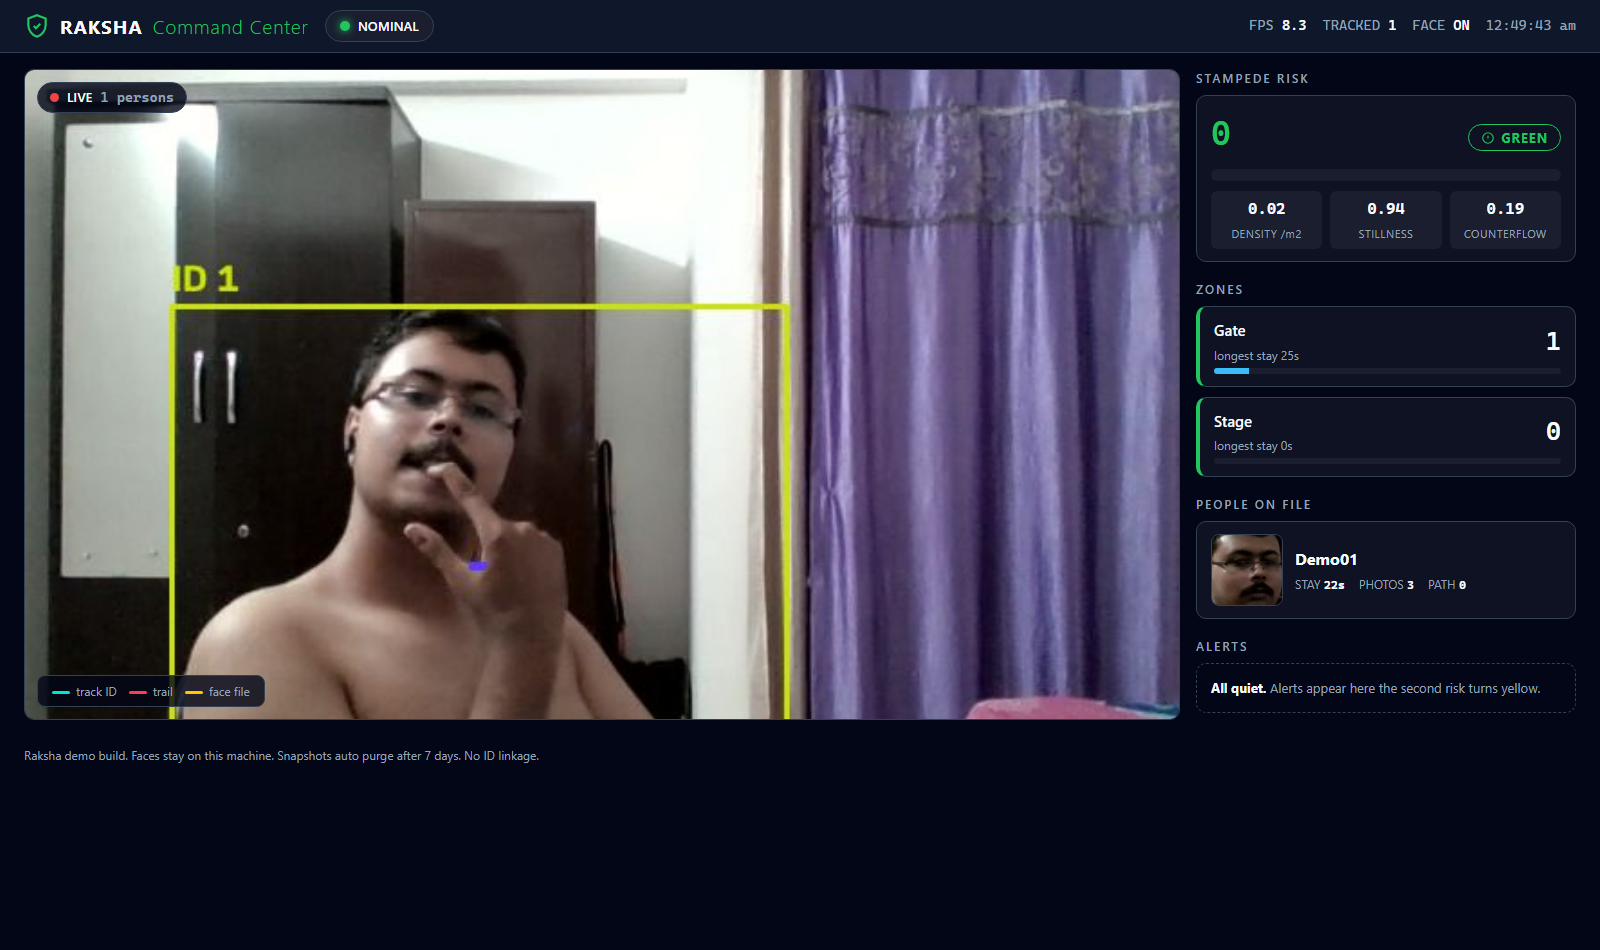
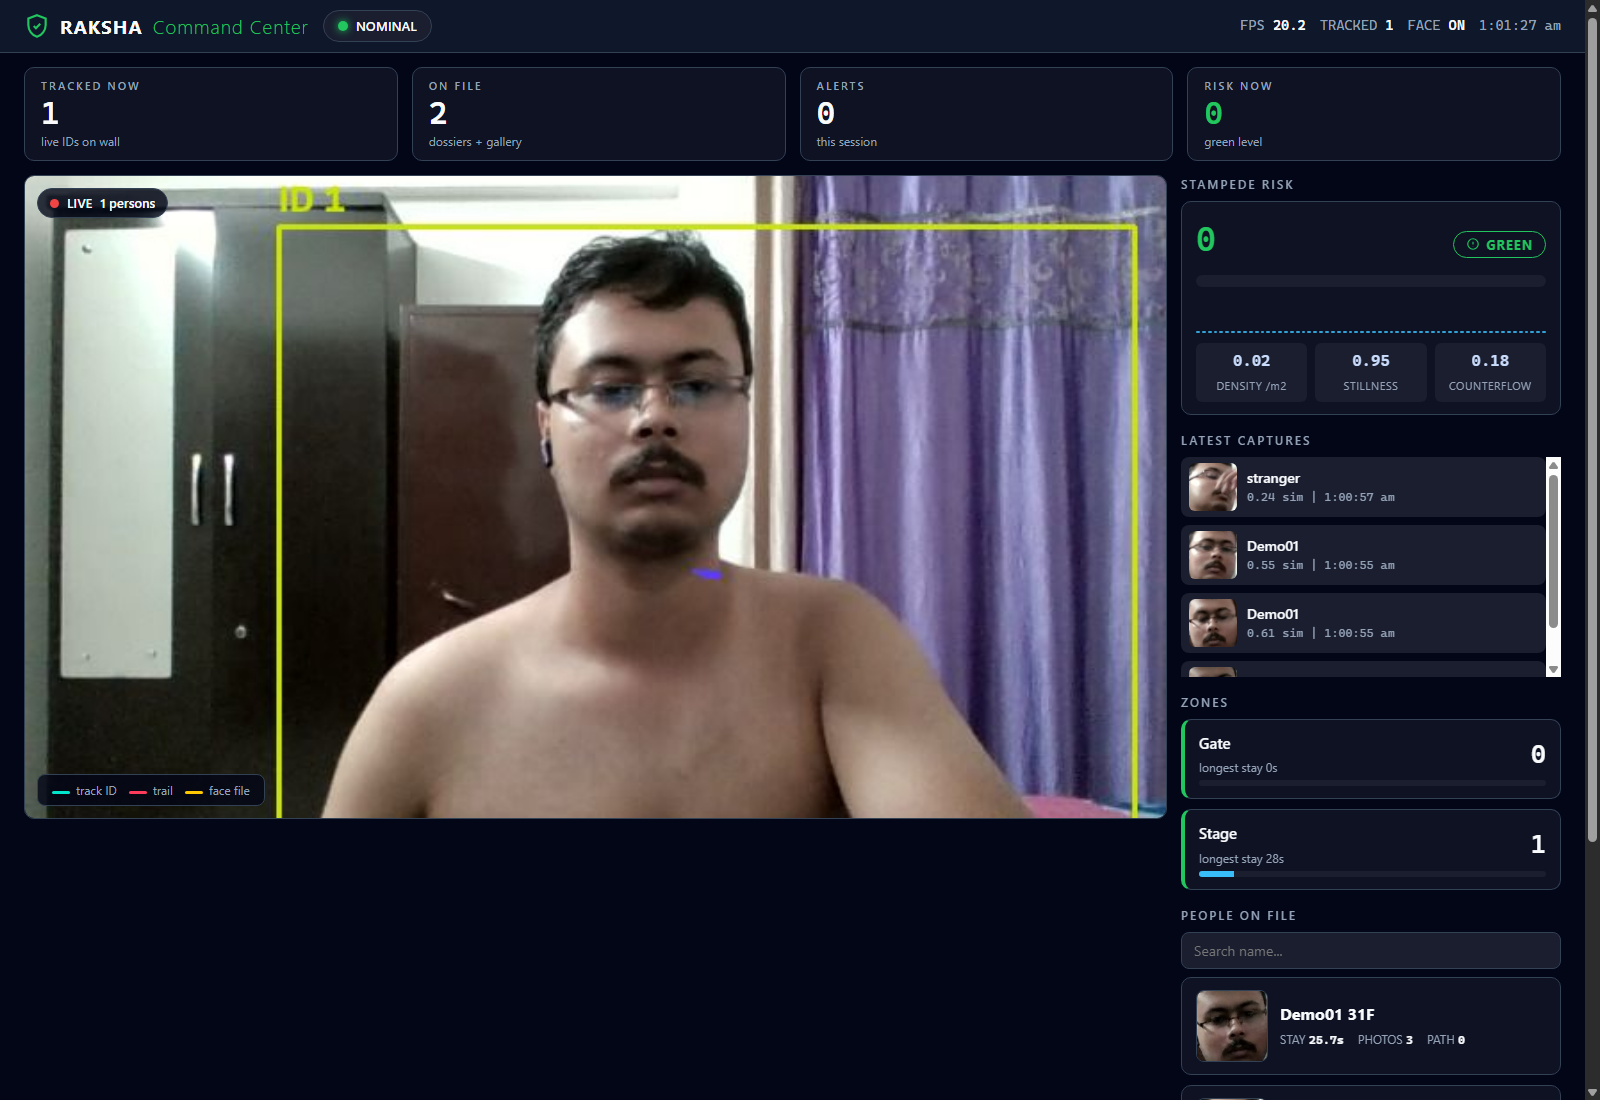
feat: wall v3 chinese-grade (KPIs, captures feed, search, sparkline, health)

diff --git a/raksha/frontend/wall.html b/raksha/frontend/wall.html
@@ -9,14 +9,13 @@
     --bg: #020617; --primary: #0F172A; --secondary: #1E293B; --card: #0E1223;
     --muted: #1A1E2F; --muted-fg: #94A3B8; --fg: #F8FAFC; --border: #334155;
     --accent: #22C55E; --warn: #E5B800; --danger: #EF4444; --info: #38BDF8;
-    --radius: 10px; --gap: 16px;
+    --radius: 10px; --gap: 14px;
     --font-ui: "Fira Sans", "Segoe UI", Calibri, Arial, sans-serif;
     --font-data: "Fira Code", "Cascadia Mono", Consolas, monospace;
   }
   * { box-sizing: border-box; margin: 0; }
   body { background: var(--bg); color: var(--fg); font-family: var(--font-ui); font-size: 15px; line-height: 1.5; }
-  /* top command bar */
-  .cmdbar { display: flex; align-items: center; gap: 16px; padding: 10px 24px;
+  .cmdbar { display: flex; align-items: center; gap: 14px; padding: 10px 24px;
     background: var(--primary); border-bottom: 1px solid var(--border); position: sticky; top: 0; z-index: 10; }
   .brand { display: flex; align-items: center; gap: 10px; font-size: 19px; font-weight: 700; letter-spacing: 1px; }
   .brand svg { width: 26px; height: 26px; }
@@ -30,16 +29,21 @@
   .cmdbar .spacer { flex: 1; }
   .metric { font-family: var(--font-data); font-variant-numeric: tabular-nums; font-size: 14px; color: var(--muted-fg); }
   .metric b { color: var(--fg); font-weight: 600; }
-  /* alert banner strip */
   .banner { display: none; align-items: center; gap: 12px; padding: 10px 24px; font-size: 15px; font-weight: 600; }
   .banner.show { display: flex; }
   .banner.red { background: #3d0a12; border-bottom: 2px solid var(--danger); }
   .banner.yellow { background: #38300a; border-bottom: 2px solid var(--warn); }
   .banner svg { width: 22px; height: 22px; flex-shrink: 0; }
+  .wrap { max-width: 1720px; margin: 0 auto; padding: var(--gap) 24px; }
+  /* KPI strip */
+  .kpis { display: grid; grid-template-columns: repeat(4, 1fr); gap: var(--gap); margin-bottom: var(--gap); }
+  .kpi { background: var(--card); border: 1px solid var(--border); border-radius: var(--radius); padding: 10px 16px; }
+  .kpi .klabel { font-size: 11px; letter-spacing: 2px; color: var(--muted-fg); font-weight: 600; }
+  .kpi .kvalue { font-family: var(--font-data); font-size: 32px; font-weight: 600; font-variant-numeric: tabular-nums; line-height: 1.2; }
+  .kpi .ksub { font-size: 12px; color: var(--muted-fg); }
   /* main grid */
-  .layout { display: grid; grid-template-columns: minmax(0, 1fr) 380px; gap: var(--gap);
-    padding: var(--gap) 24px; max-width: 1720px; margin: 0 auto; }
-  .videoframe { position: relative; background: #000; border: 1px solid var(--border); border-radius: var(--radius); overflow: hidden; }
+  .layout { display: grid; grid-template-columns: minmax(0, 1fr) 380px; gap: var(--gap); }
+  .videoframe { position: relative; background: #000; border: 1px solid var(--border); border-radius: var(--radius); overflow: hidden; align-self: start; }
   .videoframe img { width: 100%; display: block; aspect-ratio: 16 / 9; object-fit: cover; }
   .videoframe .live-tag { position: absolute; top: 12px; left: 12px; display: flex; align-items: center; gap: 8px;
     background: rgba(2, 6, 23, .8); border: 1px solid var(--border); padding: 4px 12px; border-radius: 999px; font-size: 13px; font-weight: 600; }
@@ -47,11 +51,12 @@
   .videoframe .legend { position: absolute; bottom: 12px; left: 12px; display: flex; gap: 12px;
     background: rgba(2, 6, 23, .8); border: 1px solid var(--border); padding: 6px 14px; border-radius: 8px; font-size: 12px; color: var(--muted-fg); }
   .legend i { display: inline-block; width: 18px; height: 3px; border-radius: 2px; margin-right: 6px; vertical-align: middle; }
-  /* rail */
-  .rail h2 { font-size: 12px; letter-spacing: 2px; color: var(--muted-fg); margin: 18px 0 8px; font-weight: 600; }
+  .rail h2 { font-size: 12px; letter-spacing: 2px; color: var(--muted-fg); margin: 16px 0 8px; font-weight: 600; }
   .rail h2:first-child { margin-top: 0; }
   .card { background: var(--card); border: 1px solid var(--border); border-radius: var(--radius); padding: 12px 14px; margin-bottom: 10px; }
-  /* risk gauge */
+  .card b { color: #cadcfc; }
+  .muted { color: var(--muted-fg); font-size: 13px; }
+  /* gauge + sparkline */
   .gauge-top { display: flex; align-items: baseline; justify-content: space-between; }
   .gauge-num { font-family: var(--font-data); font-size: 34px; font-weight: 600; font-variant-numeric: tabular-nums; }
   .gauge-level { display: inline-flex; align-items: center; gap: 6px; font-size: 13px; font-weight: 700; letter-spacing: 1px;
@@ -60,10 +65,18 @@
   .lvl-green { color: var(--accent); border-color: var(--accent); } .lvl-yellow { color: var(--warn); border-color: var(--warn); } .lvl-red { color: var(--danger); border-color: var(--danger); }
   .bar { height: 12px; border-radius: 6px; background: var(--muted); overflow: hidden; margin-top: 10px; }
   .bar > div { height: 100%; width: 0%; background: var(--accent); transition: width .5s ease; }
+  .spark { display: flex; align-items: flex-end; gap: 2px; height: 36px; margin-top: 10px; }
+  .spark i { flex: 1; background: var(--info); border-radius: 1px; min-height: 2px; opacity: .85; }
   .gauge-sub { display: grid; grid-template-columns: repeat(3, 1fr); gap: 8px; margin-top: 10px; }
   .gauge-sub div { background: var(--muted); border-radius: 6px; padding: 6px 8px; text-align: center; }
   .gauge-sub b { display: block; font-family: var(--font-data); font-size: 16px; font-variant-numeric: tabular-nums; }
   .gauge-sub span { font-size: 11px; color: var(--muted-fg); letter-spacing: .5px; }
+  /* captures feed */
+  .captures { display: flex; flex-direction: column; gap: 8px; max-height: 220px; overflow-y: auto; }
+  .cap { display: flex; gap: 10px; align-items: center; background: var(--muted); border-radius: 8px; padding: 6px 8px; }
+  .cap img { width: 48px; height: 48px; object-fit: cover; border-radius: 6px; background: #000; }
+  .cap .cwho { font-weight: 600; font-size: 14px; }
+  .cap .cmeta { font-size: 12px; color: var(--muted-fg); font-family: var(--font-data); }
   /* zones */
   .zone { display: grid; grid-template-columns: 1fr auto; gap: 4px 12px; align-items: center; border-left: 4px solid var(--accent); }
   .zone.warn { border-left-color: var(--warn); } .zone.bad { border-left-color: var(--danger); }
@@ -72,7 +85,9 @@
   .zone .zsub { font-size: 12px; color: var(--muted-fg); }
   .zone .zbar { grid-column: 1 / -1; height: 6px; background: var(--muted); border-radius: 3px; overflow: hidden; }
   .zone .zbar > div { height: 100%; background: var(--info); }
-  /* dossiers */
+  /* dossiers + search */
+  .search { width: 100%; background: var(--muted); border: 1px solid var(--border); color: var(--fg);
+    border-radius: 8px; padding: 8px 12px; font-size: 14px; font-family: var(--font-ui); margin-bottom: 8px; }
   .person { display: flex; gap: 12px; align-items: center; }
   .person img { width: 72px; height: 72px; object-fit: cover; border-radius: 8px; background: #000; border: 1px solid var(--border); flex-shrink: 0; }
   .person .pname { font-weight: 700; font-size: 16px; }
@@ -86,9 +101,14 @@
   .alert-item svg { width: 18px; height: 18px; flex-shrink: 0; margin-top: 2px; }
   .alert-item time { font-size: 12px; color: var(--muted-fg); font-family: var(--font-data); }
   .conn-err { background: #3d0a12; border: 1px solid var(--danger); border-radius: var(--radius); padding: 12px 14px; font-size: 14px; }
-  footer { padding: 10px 24px 20px; color: var(--muted-fg); font-size: 12px; max-width: 1720px; margin: 0 auto; }
+  /* health row */
+  .health { display: grid; grid-template-columns: repeat(4, 1fr); gap: var(--gap); margin-top: var(--gap); }
+  .health .card { margin-bottom: 0; text-align: center; padding: 8px; }
+  .health b { font-family: var(--font-data); font-size: 18px; display: block; }
+  .health span { font-size: 11px; color: var(--muted-fg); letter-spacing: 1px; }
+  footer { padding: 12px 24px 20px; color: var(--muted-fg); font-size: 12px; max-width: 1720px; margin: 0 auto; }
   :focus-visible { outline: 2px solid var(--info); outline-offset: 2px; }
-  @media (max-width: 1024px) { .layout { grid-template-columns: 1fr; } }
+  @media (max-width: 1024px) { .layout { grid-template-columns: 1fr; } .kpis, .health { grid-template-columns: repeat(2, 1fr); } }
   @media (prefers-reduced-motion: reduce) { .bar > div { transition: none; } }
 </style>
 </head>
@@ -109,47 +129,66 @@
   <svg viewBox="0 0 24 24" fill="none" stroke="currentColor" stroke-width="2" aria-hidden="true"><path d="M12 3L2 21h20L12 3z"/><path d="M12 10v5M12 18.5v.5"/></svg>
   <span id="bannertxt"></span>
 </div>
-<main class="layout">
-  <section class="videoframe" aria-label="Live camera wall">
-    <img src="/stream.mjpeg" alt="Live tracked camera feed">
-    <div class="live-tag"><span class="rec"></span>LIVE <span id="cammeta" class="metric"></span></div>
-    <div class="legend" aria-hidden="true">
-      <span><i style="background:#00E5CC"></i>track ID</span>
-      <span><i style="background:#FF3B5C"></i>trail</span>
-      <span><i style="background:#FFC800"></i>face file</span>
-    </div>
+<div class="wrap">
+  <section class="kpis" aria-label="Key numbers">
+    <div class="kpi"><div class="klabel">TRACKED NOW</div><div class="kvalue" id="kTrk">--</div><div class="ksub" id="kTrkSub">live IDs</div></div>
+    <div class="kpi"><div class="klabel">ON FILE</div><div class="kvalue" id="kFile">--</div><div class="ksub">dossiers + gallery</div></div>
+    <div class="kpi"><div class="klabel">ALERTS</div><div class="kvalue" id="kAl">--</div><div class="ksub">this session</div></div>
+    <div class="kpi"><div class="klabel">RISK NOW</div><div class="kvalue" id="kRisk">--</div><div class="ksub" id="kRiskSub">level</div></div>
   </section>
-  <aside class="rail">
-    <h2>STAMPEDE RISK</h2>
-    <div class="card">
-      <div class="gauge-top">
-        <span class="gauge-num" id="risknum">--</span>
-        <span class="gauge-level lvl-green" id="risklvl">
-          <svg viewBox="0 0 24 24" fill="none" stroke="currentColor" stroke-width="2" aria-hidden="true"><circle cx="12" cy="12" r="9"/><path d="M12 8v5M12 16.5v.5"/></svg>
-          <span id="risklvltxt">GREEN</span></span>
+  <main class="layout">
+    <section class="videoframe" aria-label="Live camera wall">
+      <img src="/stream.mjpeg" alt="Live tracked camera feed">
+      <div class="live-tag"><span class="rec" style="width:9px;height:9px;border-radius:50%;background:#EF4444;display:inline-block"></span>LIVE <span id="cammeta"></span></div>
+      <div class="legend" aria-hidden="true">
+        <span><i style="background:#00E5CC"></i>track ID</span>
+        <span><i style="background:#FF3B5C"></i>trail</span>
+        <span><i style="background:#FFC800"></i>face file</span>
       </div>
-      <div class="bar"><div id="riskbar"></div></div>
-      <div class="gauge-sub">
-        <div><b id="gDen">--</b><span>DENSITY /m2</span></div>
-        <div><b id="gStill">--</b><span>STILLNESS</span></div>
-        <div><b id="gCf">--</b><span>COUNTERFLOW</span></div>
+    </section>
+    <aside class="rail">
+      <h2>STAMPEDE RISK</h2>
+      <div class="card">
+        <div class="gauge-top">
+          <span class="gauge-num" id="risknum">--</span>
+          <span class="gauge-level lvl-green" id="risklvl">
+            <svg viewBox="0 0 24 24" fill="none" stroke="currentColor" stroke-width="2" aria-hidden="true"><circle cx="12" cy="12" r="9"/><path d="M12 8v5M12 16.5v.5"/></svg>
+            <span id="risklvltxt">GREEN</span></span>
+        </div>
+        <div class="bar"><div id="riskbar"></div></div>
+        <div class="spark" id="spark" aria-hidden="true"></div>
+        <div class="gauge-sub">
+          <div><b id="gDen">--</b><span>DENSITY /m2</span></div>
+          <div><b id="gStill">--</b><span>STILLNESS</span></div>
+          <div><b id="gCf">--</b><span>COUNTERFLOW</span></div>
+        </div>
       </div>
-    </div>
-    <h2>ZONES</h2>
-    <div id="zones"></div>
-    <h2>PEOPLE ON FILE</h2>
-    <div id="dossiers" aria-live="polite"></div>
-    <h2>ALERTS</h2>
-    <div id="alerts" aria-live="polite"></div>
-  </aside>
-</main>
+      <h2>LATEST CAPTURES</h2>
+      <div class="captures" id="captures"><div class="empty">No captures yet.</div></div>
+      <h2>ZONES</h2>
+      <div id="zones"></div>
+      <h2>PEOPLE ON FILE</h2>
+      <input class="search" id="q" type="search" placeholder="Search name..." aria-label="Search dossiers by name">
+      <div id="dossiers" aria-live="polite"></div>
+      <h2>ALERTS</h2>
+      <div id="alerts" aria-live="polite"></div>
+    </aside>
+  </main>
+  <section class="health" aria-label="System health">
+    <div class="card"><b id="hFps">--</b><span>LOOP FPS</span></div>
+    <div class="card"><b id="hFace">--</b><span>FACE ENGINE</span></div>
+    <div class="card"><b id="hGal">--</b><span>GALLERY IDS</span></div>
+    <div class="card"><b id="hGpu">--</b><span>COMPUTE</span></div>
+  </section>
+</div>
 <footer>Raksha demo build. Faces stay on this machine. Snapshots auto purge after 7 days. No ID linkage.</footer>
 <script>
 const $ = id => document.getElementById(id);
 function clock() { $('clock').textContent = new Date().toLocaleTimeString(); }
 setInterval(clock, 1000); clock();
-let fails = 0;
-async function tick() {
+let fails = 0, alertsSeen = 0;
+$('q').addEventListener('input', () => tick(true));
+async function tick(soft) {
   try {
     const s = await (await fetch('/api/state')).json();
     fails = 0;
@@ -170,6 +209,15 @@ async function tick() {
         ? `RED surge risk ${b.risk} in ${zs ? zs[0] : 'zone'} (${zs ? zs[1].count : '?'} people). Divert flow now.`
         : `Yellow watch: risk ${b.risk}, density ${b.density}/m2. Keep eyes on ${zs ? zs[0] : 'zone'}.`;
     } else banner.className = 'banner';
+    const ds = Object.values(s.dossiers || {});
+    $('kTrk').textContent = s.dets.length;
+    $('kTrkSub').textContent = 'live IDs on wall';
+    $('kFile').textContent = ds.length;
+    $('kFileSub') && ($('kFileSub').textContent = '');
+    $('kAl').textContent = (s.alerts || []).length;
+    $('kRisk').textContent = b.risk ?? '--';
+    $('kRisk').style.color = lvl === 'red' ? 'var(--danger)' : lvl === 'yellow' ? 'var(--warn)' : 'var(--accent)';
+    $('kRiskSub').textContent = lvl + ' level';
     $('risknum').textContent = b.risk ?? '--';
     $('risknum').style.color = lvl === 'red' ? 'var(--danger)' : lvl === 'yellow' ? 'var(--warn)' : 'var(--accent)';
     const rl = $('risklvl');
@@ -177,7 +225,16 @@ async function tick() {
     $('risklvltxt').textContent = lvl.toUpperCase();
     $('riskbar').style.width = Math.min(100, (b.risk || 0) * 100) + '%';
     $('riskbar').style.background = lvl === 'red' ? 'var(--danger)' : lvl === 'yellow' ? 'var(--warn)' : 'var(--accent)';
+    $('spark').innerHTML = (s.risk_hist || []).map(v => {
+      const h = Math.max(6, Math.min(100, v * 100));
+      const c = v > 0.6 ? 'var(--danger)' : v > 0.4 ? 'var(--warn)' : 'var(--info)';
+      return `<i style="height:${h}%;background:${c}"></i>`;
+    }).join('');
     $('gDen').textContent = b.density ?? '--'; $('gStill').textContent = b.stillness ?? '--'; $('gCf').textContent = b.counterflow ?? '--';
+    $('captures').innerHTML = (s.captures || []).map(c =>
+      `<div class="cap"><img src="${c.url}" alt="Capture of ${c.name}" loading="lazy">`
+      + `<div><div class="cwho">${c.name}</div><div class="cmeta">${c.sim} sim | ${new Date(c.time * 1000).toLocaleTimeString()}</div></div></div>`).join('')
+      || '<div class="empty">No captures yet.</div>';
     $('zones').innerHTML = Object.entries(s.zones || {}).map(([n, z]) => {
       const cls = z.count >= 10 ? 'bad' : z.count >= 5 ? 'warn' : '';
       const dw = Object.values(z.dwell_s || {});
@@ -186,23 +243,32 @@ async function tick() {
         + `<span class="zsub">longest stay ${dw.length ? Math.max(...dw).toFixed(0) : 0}s</span>`
         + `<div class="zbar"><div style="width:${pct}%"></div></div></div>`;
     }).join('') || `<div class="empty"><b>No zone data.</b> Start the backend and point a camera.</div>`;
-    const ds = Object.values(s.dossiers || {});
-    $('dossiers').innerHTML = ds.length ? ds.map(d => {
-      const img = (d.snap_urls && d.snap_urls[0]) ? `<img src="${d.snap_urls[0]}" alt="Face snapshot of ${d.name}">` : '';
-      return `<div class="card person">${img}<div><div class="pname">${d.name}</div>`
+    const q = ($('q').value || '').toLowerCase();
+    const shown = ds.filter(d => (d.name || '').toLowerCase().includes(q));
+    $('dossiers').innerHTML = shown.length ? shown.map(d => {
+      const img = (d.snap_urls && d.snap_urls[0]) ? `<img src="${d.snap_urls[0]}" alt="Face snapshot of ${d.name}" loading="lazy">` : '';
+      const at = d.attrs || {};
+      const ag = (at.age || at.gender) ? ` ${at.age ?? '?'}${at.gender ?? ''}` : '';
+      return `<div class="card person">${img}<div><div class="pname">${d.name}${ag}</div>`
         + `<div class="pmeta"><span>STAY <b>${d.dwell_s}s</b></span><span>PHOTOS <b>${d.snaps}</b></span><span>PATH <b>${d.trail_pts}</b></span></div></div></div>`;
-    }).join('') : `<div class="empty"><b>No files yet.</b> Enroll a face:<br><span style="font-family:var(--font-data)">python scripts/enroll.py YourName 5</span></div>`;
+    }).join('') : (ds.length ? `<div class="empty">No match for search.</div>`
+      : `<div class="empty"><b>No files yet.</b> Enroll a face:<br><span style="font-family:var(--font-data)">python scripts/enroll.py YourName 5</span></div>`);
+    if ((s.alerts || []).length > alertsSeen) alertsSeen = s.alerts.length;
     $('alerts').innerHTML = (s.alerts || []).slice().reverse().map(al =>
       `<div class="card alert-item ${al.level === 'yellow' ? 'yellow' : ''}">`
       + `<svg viewBox="0 0 24 24" fill="none" stroke="currentColor" stroke-width="2" aria-hidden="true"><path d="M12 3L2 21h20L12 3z"/><path d="M12 10v5M12 18.5v.5"/></svg>`
       + `<div><b>${al.level.toUpperCase()}</b> risk ${al.risk}, density ${al.density}<br><time>${new Date(al.time * 1000).toLocaleTimeString()}</time></div></div>`).join('')
       || `<div class="empty"><b>All quiet.</b> Alerts appear here the second risk turns yellow.</div>`;
+    $('hFps').textContent = s.fps ?? '--';
+    $('hFace').textContent = s.face_on ? 'GPU' : 'OFF';
+    $('hGal').textContent = s.gal_size ?? ds.length;
+    $('hGpu').textContent = 'RTX 4050';
   } catch (e) {
     if (++fails === 3) $('alerts').innerHTML = `<div class="conn-err"><b>Backend unreachable.</b> Start it with:<br><span style="font-family:var(--font-data)">python raksha/backend/app.py</span></div>`;
   }
-  setTimeout(tick, 1000);
+  if (!soft) setTimeout(() => tick(false), 1000);
 }
-tick();
+tick(false);
 </script>
 </body>
 </html>

diff --git a/raksha/backend/app.py b/raksha/backend/app.py
@@ -22,8 +22,9 @@ from raksha.vision.brain import CrowdBrain
 SNAP_DIR = "D:/Q_project/gallery/snaps"
 os.makedirs(SNAP_DIR, exist_ok=True)
 
-state = {"jpg": None, "dets": [], "zones": {}, "dossiers": {},
-         "brain": {}, "alerts": [], "fps": 0.0, "face_on": False}
+state = {"jpg": None, "dets": [], "zones": {}, "dossiers": {}, "captures": [],
+         "brain": {}, "risk_hist": [], "alerts": [], "fps": 0.0, "face_on": False,
+         "gal_size": 0}
 lock = threading.Lock()
 
 
@@ -40,6 +41,7 @@ def vision_loop(src):
     eng = FaceEngine() if face_on else None
     brain = CrowdBrain()
     trails, votes, dossiers = {}, deque(maxlen=3), {}
+    risk_hist, captures = deque(maxlen=60), deque(maxlen=20)
     t0, n = time.time(), 0
     fps = 0.0
     while True:
@@ -68,11 +70,15 @@ def vision_loop(src):
                 label = nm if nm and list(votes).count(nm) >= 2 else "stranger"
                 gid = nm or "stranger"
                 ds = dossiers.setdefault(gid, Dossier(gid, nm))
+                if meta:
+                    ds.attrs = {"age": meta.get("age"), "gender": meta.get("gender"), "sim": round(sim, 2)}
                 x1, y1, x2, y2 = fc["bbox"]
                 snap = None
                 if len(ds.snapshots) < 3:
                     snap = os.path.join(SNAP_DIR, f"{gid}_{len(ds.snapshots)}.jpg")
                     cv2.imwrite(snap, f[y1:y2, x1:x2])
+                    captures.appendleft({"url": "/snaps/" + os.path.basename(snap),
+                                         "name": label, "sim": round(sim, 2), "time": time.time()})
                 ds.touch(snapshot=snap)
                 cv2.rectangle(f, (x1, y1), (x2, y2), (255, 200, 0), 2)
                 cv2.putText(f, f"{label} {sim:.2f}", (x1, y2 + 20),
@@ -81,10 +87,13 @@ def vision_loop(src):
         if n % 10 == 0:
             fps = n / (time.time() - t0)
         ok, buf = cv2.imencode(".jpg", f, [cv2.IMWRITE_JPEG_QUALITY, 80])
+        risk_hist.append(br["risk"])
         with lock:
             state.update({"jpg": buf.tobytes() if ok else None, "dets": dets, "zones": zc,
-                          "brain": br, "alerts": brain.alerts[-10:], "fps": round(fps, 1),
-                          "face_on": face_on,
+                          "brain": br, "risk_hist": list(risk_hist),
+                          "captures": list(captures),
+                          "alerts": brain.alerts[-10:], "fps": round(fps, 1),
+                          "face_on": face_on, "gal_size": gal.index.ntotal,
                           "dossiers": {k: v.card() for k, v in dossiers.items()}})
 
 

diff --git a/raksha/vision/dossier.py b/raksha/vision/dossier.py
@@ -13,6 +13,7 @@ class Dossier:
         self.snapshots = []  # file paths of best crops
         self.trail = deque(maxlen=200)  # (cam, x, y, t)
         self.flags = []
+        self.attrs = {}  # age, gender, sim from gallery match
 
     def touch(self, track_id=None, pos=None, snapshot=None):
         self.last_seen = time.time()
@@ -32,4 +33,4 @@ class Dossier:
         return {"gid": self.gid, "name": self.name, "dwell_s": round(self.dwell_s, 1),
                 "tracks": sorted(self.track_ids), "snaps": len(self.snapshots),
                 "snap_urls": ["/snaps/" + _os.path.basename(s) for s in self.snapshots],
-                "trail_pts": len(self.trail), "flags": self.flags}
+                "trail_pts": len(self.trail), "flags": self.flags, "attrs": self.attrs}
